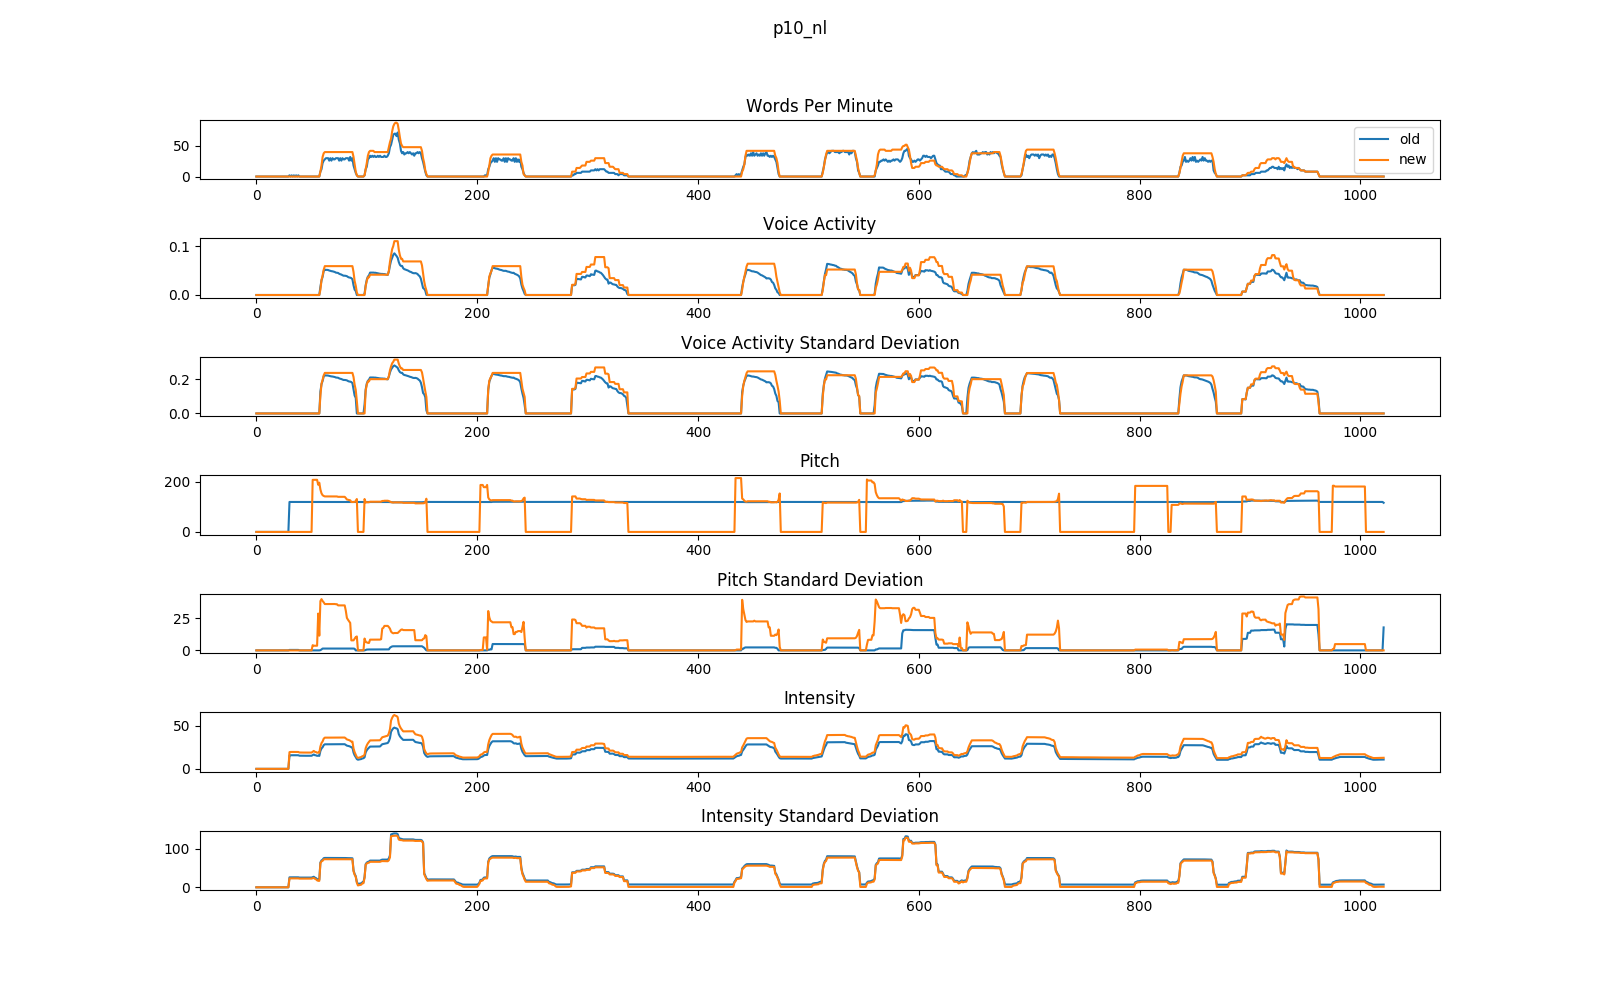
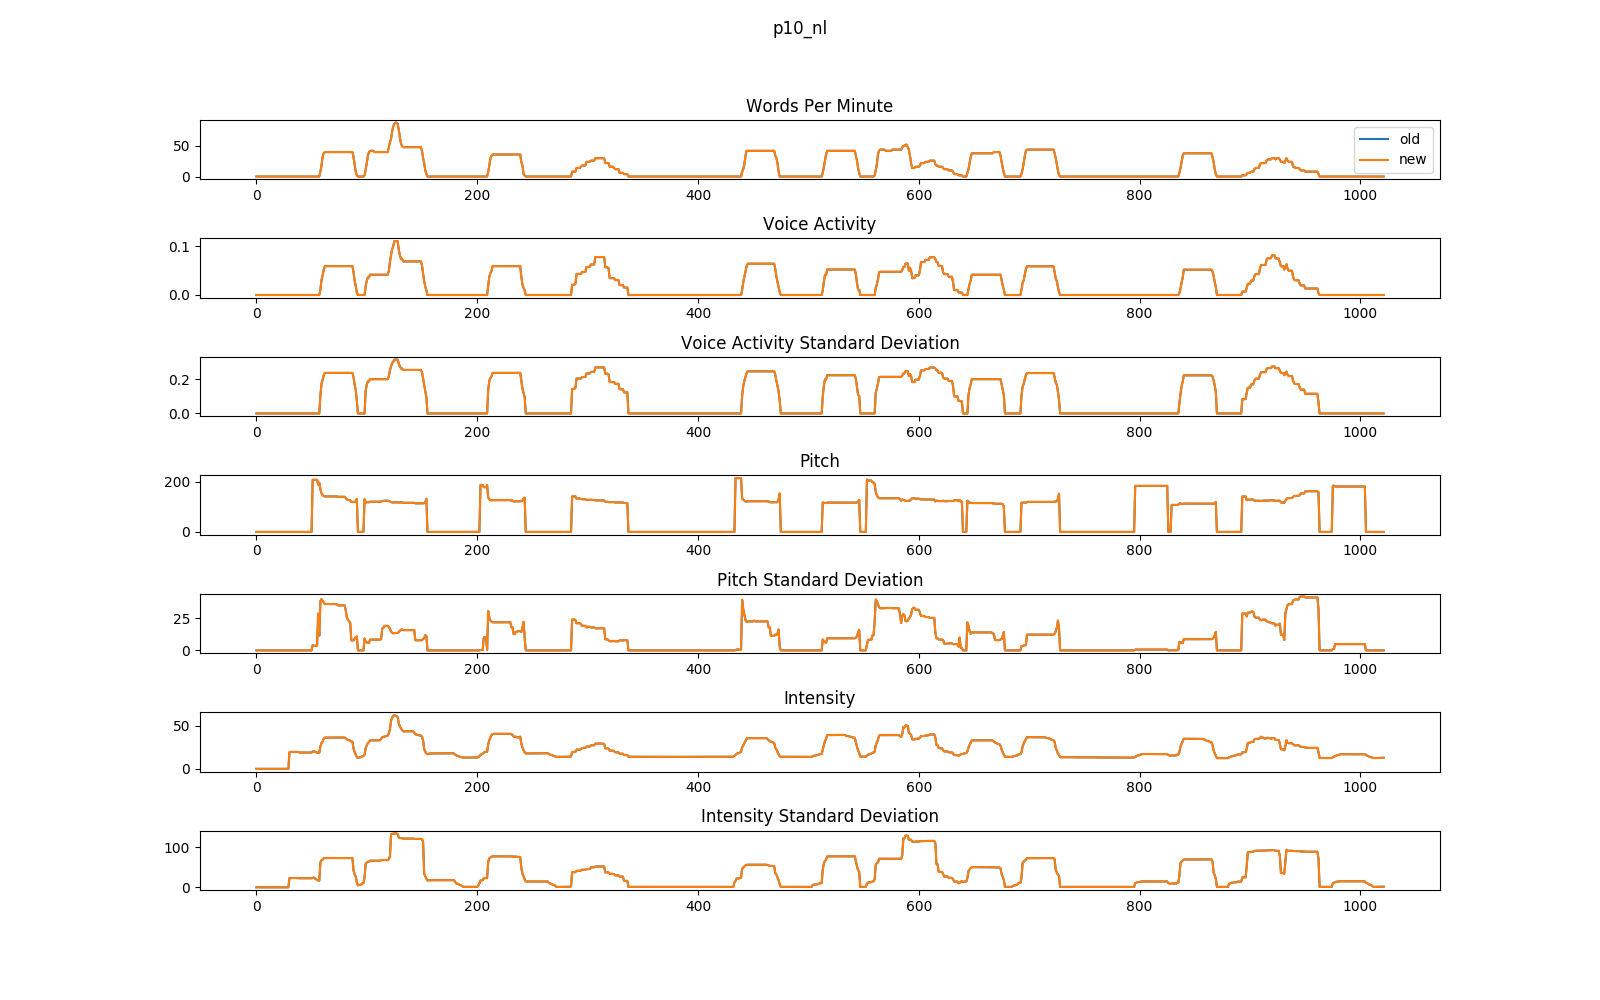
Progress on new algorithm and timings

diff --git a/speechLibrary/speechAnalysis.py b/speechLibrary/speechAnalysis.py
@@ -16,6 +16,8 @@ from speechLibrary import featureModule, audioModule
 
 np.set_printoptions(threshold=sys.maxsize)
 
+DEBUG = False
+
 # | A class used to perfom the same analysis on any number of files or on
 # | live input. Handles file and microphone IO in order to manage the entire
 # | process.
@@ -151,25 +153,71 @@ class SpeechAnalyzer:
         features = featureModule.FeatureSet()
 
         totalStartTime = time.time()
-
         startTime = time.time()
 
         ### AMPLITUDE
         energy = self.getEnergyFromAudio(audio)
 
+        if DEBUG:
+            print("Time to get amplitude:", time.time() - startTime)
+            startTime = time.time()
+
+        ### PITCH
+        pitches = self.getPitchFromAudio(audio, energy)
+
+        if DEBUG:
+            print("Time to get pitch:", time.time() - startTime)
+            startTime = time.time()
+
+        ### VAD
+        voiceActivity = self.getVoiceActivityFromAudio(audio, pitches)
+
+        if DEBUG:
+            print("Time to get voice activity:", time.time() - startTime)
+            startTime = time.time()
+
+        ### SYLLABLES
+        syllables, _ = self.getSyllablesFromAudio(audio, pitches)
+
+        if DEBUG:
+            print("Time to get syllables:", time.time() - startTime)
+            startTime = time.time()
+
+        # ### FILLED PAUSES
+        filledPauses, _ = self.getFilledPausesFromAudio(audio)
+
+        # print("Time to get filled pauses:", time.time() - startTime)
+        # print("Time to get features:", time.time() - totalStartTime)
+
+
+
+        # Mask features with voice activity
+        bufferFrames = int(self.voiceActivityMaskBufferSize / self.featureStepSize)
+        mask = featureModule.createBufferedBinaryArrayFromArray(voiceActivity.astype(bool), bufferFrames)
+
+        if self.maskEnergyWithVoiceActivity:
+            energy[not mask] = 0
+
+        if self.maskPitchWIthVoiceActivity:
+            pitches[not mask] = 0
+
+        if self.maskSyllablesWithVoiceActivity:
+            syllables[not mask] = 0
+
+        if self.maskFilledPausesWithVoiceActivity:
+            filledPauses[not mask] = 0
+
+
+
+        # Calculate statistics and add to feature arrays
+        ### AMPLITUDE
         averageEnergy = np.mean(energy)
         stDevEnergy = np.std(energy)
 
         features.meanIntensity = np.append(features.meanIntensity, averageEnergy)
         features.stDevIntensity = np.append(features.stDevIntensity, stDevEnergy)
 
-        print("Time to get amplitude:", time.time() - startTime)
-
-        startTime = time.time()
-
         ### PITCH
-        pitches = self.getPitchFromAudio(audio, energy)
-
         if max(pitches) > 0:
             pitches[pitches == 0] = np.nan
 
@@ -182,32 +230,20 @@ class SpeechAnalyzer:
         features.meanPitch = np.append(features.meanPitch, averagePitch)
         features.stDevPitch = np.append(features.stDevPitch, stDevPitch)
 
-        print("Time to get pitch:", time.time() - startTime)
-
-        startTime = time.time()
-
-        ### VAD
-        voiceActivity = self.getVoiceActivityFromAudio(audio, pitches)
-
+        ### VOICE ACTIVITY
         averageVoiceActivity = np.mean(voiceActivity)
         stDevVoiceActivity = np.std(voiceActivity)
 
         features.meanVoiceActivity = np.append(features.meanVoiceActivity, averageVoiceActivity)
         features.stDevVoiceActivity = np.append(features.stDevVoiceActivity, stDevVoiceActivity)
 
-        print("Time to get voice activity:", time.time() - startTime)
-
-        startTime = time.time()
-
         ### WORDS PER MINUTE
-        syllables, timeStampes = self.getSyllablesFromAudio(audio, pitches)
-        currentSyllablesPerSecond = len(timeStampes)/self.lookBackSize
+        currentSyllablesPerSecond = int(sum(syllables))/self.lookBackSize
 
         features.syllablesPerSecond = np.append(features.syllablesPerSecond, currentSyllablesPerSecond)
 
-        print("Time to get syllables:", time.time() - startTime)
-
-        print("Time to get features:", time.time() - totalStartTime)
+        # FILLED PAUSES
+        features.filledPauses = np.append(features.filledPauses, int(sum(filledPauses)))
 
         return features
 
@@ -363,7 +399,9 @@ class SpeechAnalyzer:
                           "Mean pitch:", features.meanPitch[0],
                           "Voice activity:", features.meanVoiceActivity[0],
                           "Speech Rate:", features.syllablesPerSecond[0],
-                          end="      \r")
+                          "Filled pauses:", features.filledPauses[0],
+                          "Time:", time.time() - startTime,
+                          end="                    \r")
 
                     # Reduce the size of the audio data array to move the beggining
                     # forward by one step size so the next window is offset by this amount
@@ -371,7 +409,7 @@ class SpeechAnalyzer:
 
         # User stops with ctrl + c
         except KeyboardInterrupt:
-            print("\rStopped!                                          ")
+            print("\rStopped!                                                                     ")
 
         # Clean up audio session
         audioStream.stop_stream()

diff --git a/filledPausesTesting.py b/filledPausesTesting.py
@@ -235,8 +235,11 @@ def printParameters(speechAnalyzer):
     print("  filledPauseWindowSize:", speechAnalyzer.filledPauseWindowSize)
     print("  filledPauseStepSize:", speechAnalyzer.featureStepSize)
     print("  filledPauseMinimumLength:", speechAnalyzer.filledPauseMinimumLength)
+    print("  filledPauseMinimumDistanceToPrevious:", speechAnalyzer.filledPauseMinimumDistanceToPrevious)
     print("  filledPauseF1MaximumVariance:", speechAnalyzer.filledPauseF1MaximumVariance)
     print("  filledPauseF2MaximumVariance:", speechAnalyzer.filledPauseF2MaximumVariance)
+    print("  filledPauseMaximumFormantDistance:", speechAnalyzer.filledPauseMaximumFormantDistance)
+    print("  filledPauseMaximumSpectralFlatnessVariance:", speechAnalyzer.filledPauseMaximumSpectralFlatnessVariance)
     print()
 
 def createMetaDataForDataset():
@@ -390,7 +393,7 @@ def compareAlgorithmToParticipants():
                 filledPausesMarkers = np.full(len(timeStamps), 0)
                 filledPausesCount = len(timeStamps)
 
-                print(name, actualFilledPausesCount, filledPausesCount, sum(filledPauses))
+                print(name, actualFilledPausesCount, filledPausesCount)
 
                 totalNumberOfFilledPauses += actualFilledPausesCount
 
@@ -406,7 +409,7 @@ def compareAlgorithmToParticipants():
     f1 = 2 * precision * recall / (precision + recall)
 
     print("    Total     | Filled pauses:", totalNumberOfFilledPauses)
-    print("     New      | Correct filled pauses:", totalNumberOfCorrectlyDetectedPauses, "Precision:", precision, "Recall:", recall, "F1", f1)
+    print("     New      | Correct filled pauses:", totalNumberOfCorrectlyDetectedPauses, "False alarms:", totalNumberOfFalseAlarms, "Precision:", precision, "Recall:", recall, "F1", f1)
 
 def main():
     compareAlgorithmToParticipants()

diff --git a/compareFeatures.py b/compareFeatures.py
@@ -2,11 +2,11 @@ from speechLibrary import testModule
 import numpy, os, glob
 import matplotlib.pyplot as plt # Visualisation
 
-testDir = "./featuresTest/*.npy"
-oldDir =  "./features/"
+testDir = "./featuresCurrent/*.npy"
+oldDir =  "./featuresTest/"
 
 for testPath in sorted(glob.iglob(testDir)):
-    oldPath = oldDir + testPath[15:]
+    oldPath = oldDir + testPath.split('/')[2]
 
     testModule.compareArrayFiles(testPath, oldPath)
 

diff --git a/offline.py b/offline.py
@@ -8,4 +8,4 @@ analyzer = speechAnalysis.SpeechAnalyzer()
 
 analyzer.printStatus = True
 
-analyzer.createFeatureFilesFromDirectory("../media/Participant_Audio/", "./featuresTest/")
+analyzer.createFeatureFilesFromDirectory("../media/Participant_Audio/", "./featuresCurrent/")

diff --git a/live.py b/live.py
@@ -5,6 +5,6 @@ analyzer = speechAnalysis.SpeechAnalyzer()
 analyzer.lookBackSize = 5
 analyzer.stepSize = 1
 
-analyzer.recordingBufferSize = 2048
+analyzer.recordingBufferSize = 8192
 
 analyzer.getFeaturesFromLiveInput()
